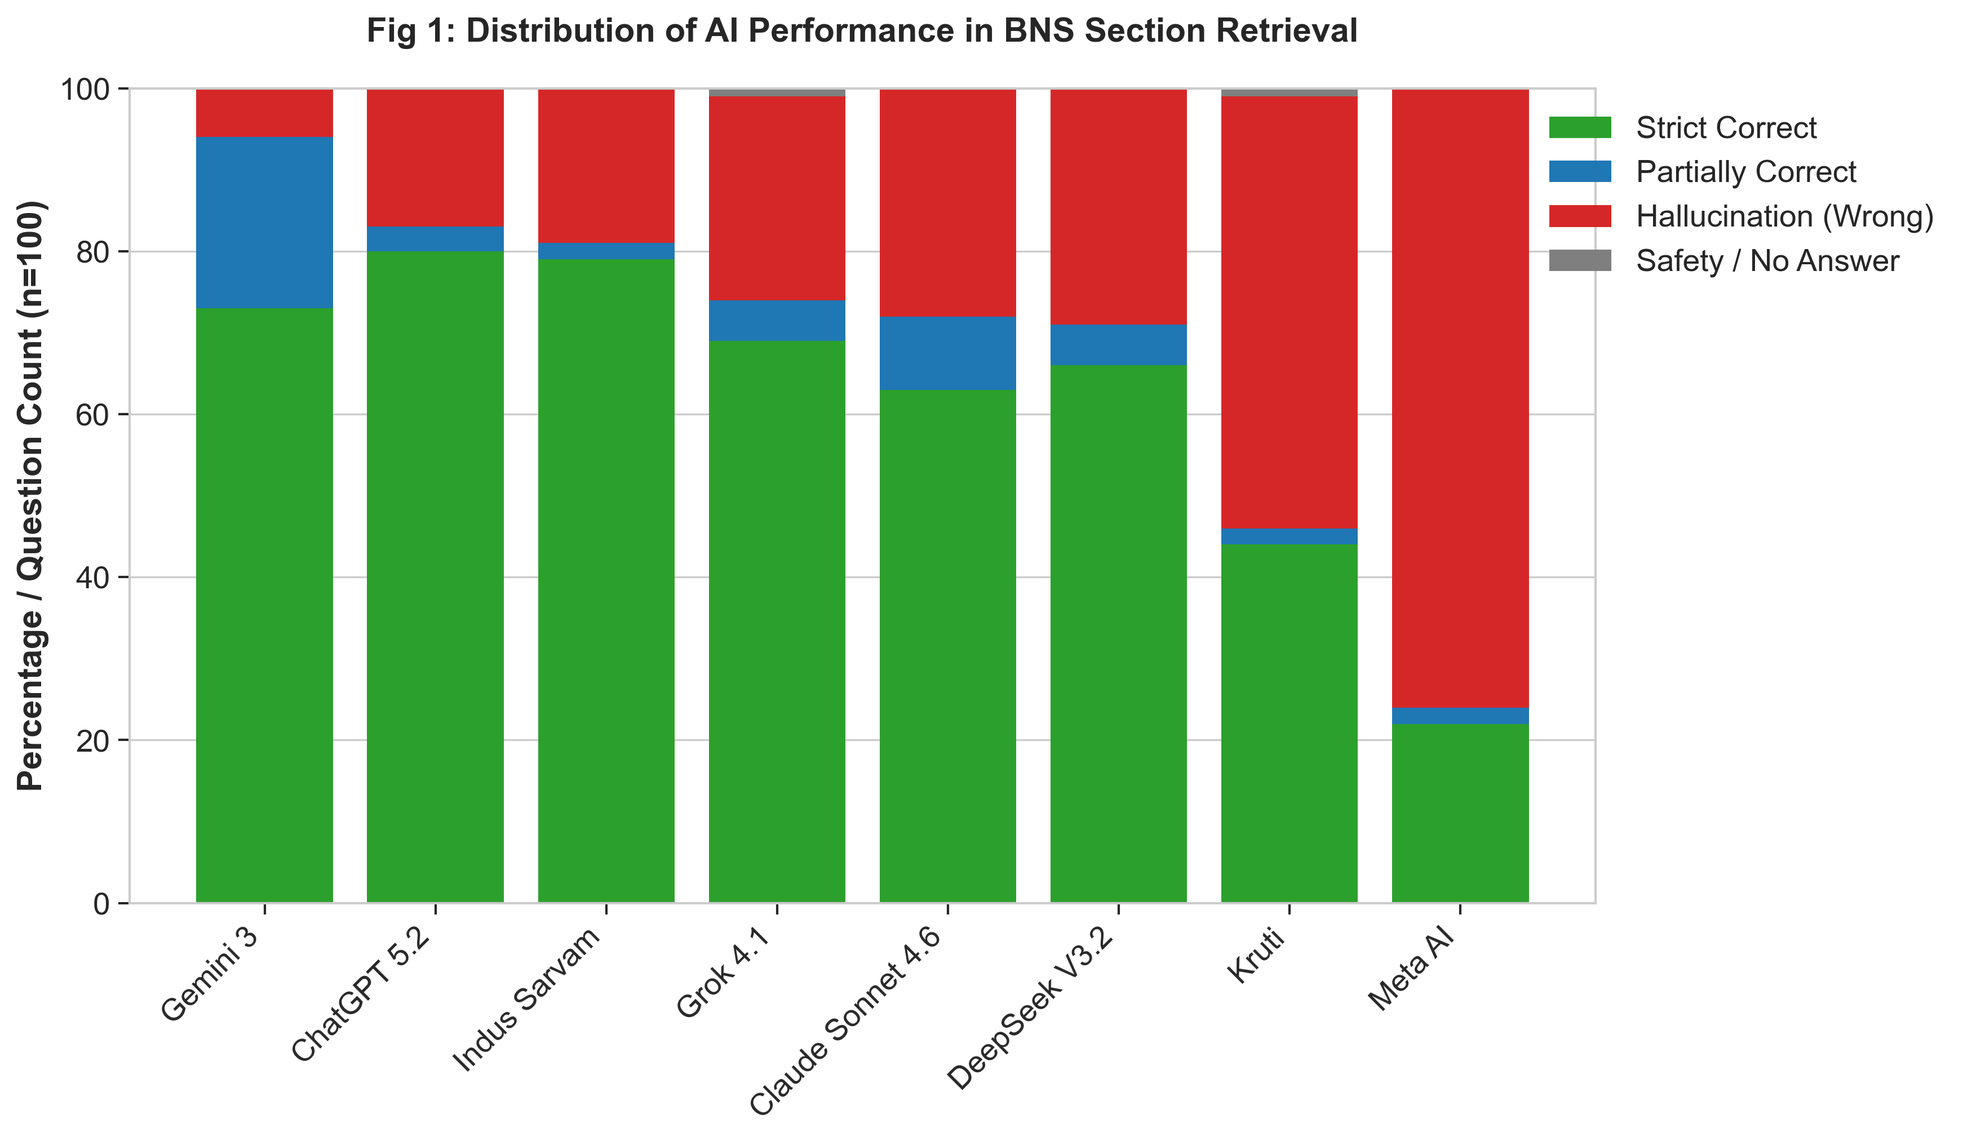
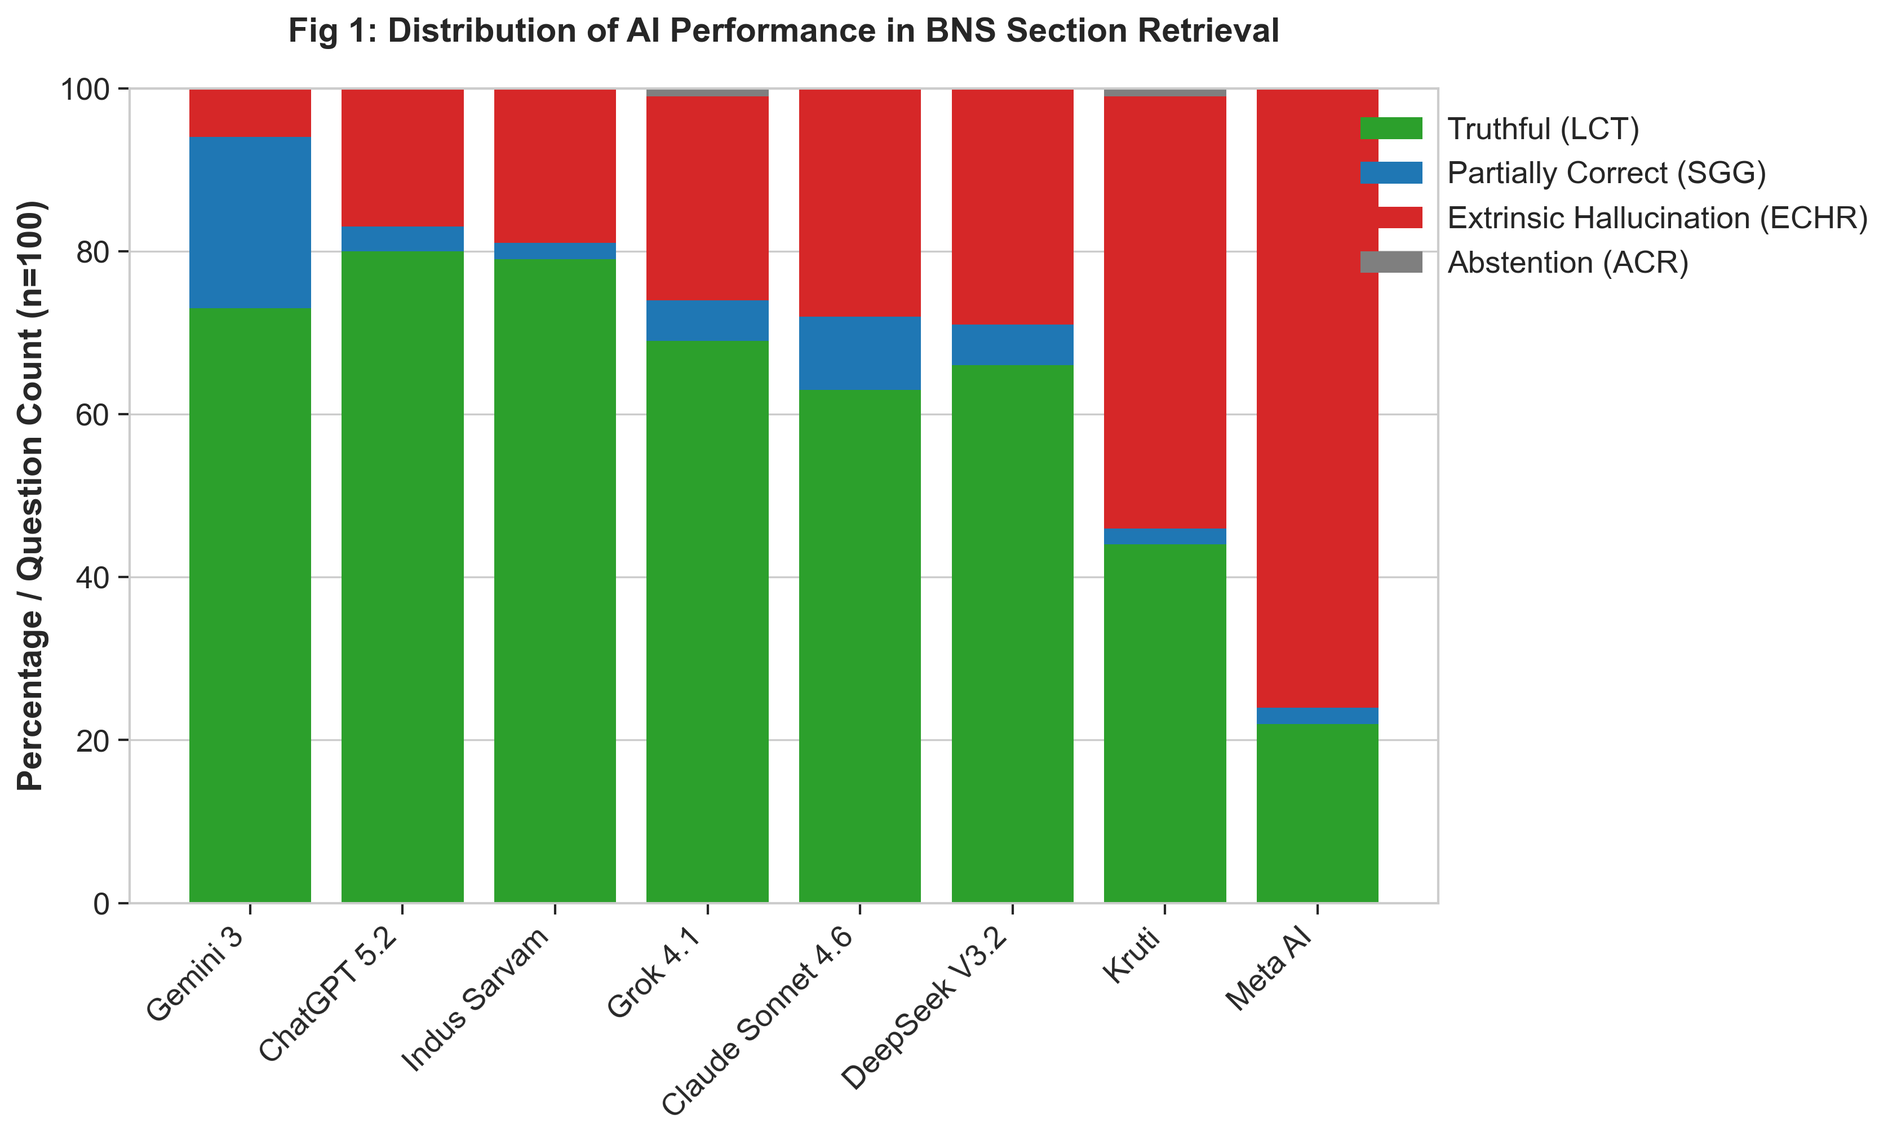
feat: Implement Advanced Legal AI Benchmark Metrics (LCT, ECHR, SGG, ACR, LBAS) for IEEE Research Paper

diff --git a/src/components/AnalyticsDashboard.tsx b/src/components/AnalyticsDashboard.tsx
@@ -40,28 +40,28 @@ export default function AnalyticsDashboard({ data, isOpen, onClose }: AnalyticsD
       const r = rawResults[model];
       const total = Math.max(r.total, 1);
       
-      const alps = Number(((r.correct / total) * 100).toFixed(1));
-      const lhfr = Number(((r.wrong / total) * 100).toFixed(1));
-      const gsam = Number(((r.somewhat / total) * 100).toFixed(1));
-      const sar = Number(((r.noAnswer / total) * 100).toFixed(1));
+      const lct = Number(((r.correct / total) * 100).toFixed(1));
+      const echr = Number(((r.wrong / total) * 100).toFixed(1));
+      const sgg = Number(((r.somewhat / total) * 100).toFixed(1));
+      const acr = Number(((r.noAnswer / total) * 100).toFixed(1));
       
-      const rawWlci = (r.correct * 1.0) + (r.somewhat * 0.5) + (r.noAnswer * 0) + (r.wrong * -1.0);
-      const wlci = Number(Math.max(0, Math.min(100, (rawWlci / total) * 100)).toFixed(1));
+      const rawLbas = (r.correct * 1.0) + (r.somewhat * 0.5) + (r.noAnswer * 0) + (r.wrong * -1.0);
+      const lbas = Number(Math.max(0, Math.min(100, (rawLbas / total) * 100)).toFixed(1));
 
       return {
         name: model,
-        ALPS: alps,
-        LHFR: lhfr,
-        GSAM: gsam,
-        SAR: sar,
-        WLCI: wlci,
+        LCT: lct,
+        ECHR: echr,
+        SGG: sgg,
+        ACR: acr,
+        LBAS: lbas,
         correct: r.correct,
         somewhat: r.somewhat,
         wrong: r.wrong,
         noAnswer: r.noAnswer,
         totalGraded: r.total
       };
-    }).sort((a, b) => b.WLCI - a.WLCI);
+    }).sort((a, b) => b.LBAS - a.LBAS);
   }, [data]);
 
   if (!isOpen) return null;
@@ -98,10 +98,10 @@ export default function AnalyticsDashboard({ data, isOpen, onClose }: AnalyticsD
               <div className="absolute top-0 right-0 w-16 h-16 bg-emerald-50 rounded-bl-[100px] flex items-start justify-end p-3 text-emerald-500">
                 <Target size={18} />
               </div>
-              <span className="text-xs font-bold text-slate-400 uppercase tracking-wider">Top Precision</span>
+              <span className="text-[10px] font-bold text-slate-400 uppercase tracking-wider leading-none mb-1">Top Truthfulness (LCT)</span>
               <div className="flex flex-col">
                 <span className="text-2xl md:text-3xl font-black text-slate-900">{metrics[0]?.name.split(' ')[0]}</span>
-                <span className="text-sm font-semibold text-emerald-600">{metrics[0]?.ALPS}% ALPS</span>
+                <span className="text-sm font-semibold text-emerald-600">{metrics[0]?.LCT}% Legal Truth</span>
               </div>
             </div>
 
@@ -109,10 +109,10 @@ export default function AnalyticsDashboard({ data, isOpen, onClose }: AnalyticsD
               <div className="absolute top-0 right-0 w-16 h-16 bg-indigo-50 rounded-bl-[100px] flex items-start justify-end p-3 text-indigo-500">
                 <Scale size={18} />
               </div>
-              <span className="text-xs font-bold text-slate-400 uppercase tracking-wider">Top Overall</span>
+              <span className="text-[10px] font-bold text-slate-400 uppercase tracking-wider leading-none mb-1">Top Academic Index (LBAS)</span>
               <div className="flex flex-col">
                 <span className="text-2xl md:text-3xl font-black text-slate-900">{metrics[0]?.name.split(' ')[0]}</span>
-                <span className="text-sm font-semibold text-indigo-600">{metrics[0]?.WLCI} WLCI</span>
+                <span className="text-sm font-semibold text-indigo-600">{metrics[0]?.LBAS} LBAS Score</span>
               </div>
             </div>
 
@@ -120,14 +120,14 @@ export default function AnalyticsDashboard({ data, isOpen, onClose }: AnalyticsD
               <div className="absolute top-0 right-0 w-16 h-16 bg-red-50 rounded-bl-[100px] flex items-start justify-end p-3 text-red-500">
                 <AlertTriangle size={18} />
               </div>
-              <span className="text-xs font-bold text-slate-400 uppercase tracking-wider">Highest Risk</span>
+              <span className="text-[10px] font-bold text-slate-400 uppercase tracking-wider leading-none mb-1">Highest Hallucination (ECHR)</span>
               <div className="flex flex-col">
                 {(() => {
-                  const sortedLhfr = [...metrics].sort((a,b) => b.LHFR - a.LHFR);
+                  const sortedEchr = [...metrics].sort((a,b) => b.ECHR - a.ECHR);
                   return (
                     <>
-                      <span className="text-2xl md:text-3xl font-black text-slate-900">{sortedLhfr[0]?.name.split(' ')[0]}</span>
-                      <span className="text-sm font-semibold text-red-600">{sortedLhfr[0]?.LHFR}% LHFR</span>
+                      <span className="text-2xl md:text-3xl font-black text-slate-900">{sortedEchr[0]?.name.split(' ')[0]}</span>
+                      <span className="text-sm font-semibold text-red-600">{sortedEchr[0]?.ECHR}% Fake Citations</span>
                     </>
                   );
                 })()}
@@ -147,35 +147,37 @@ export default function AnalyticsDashboard({ data, isOpen, onClose }: AnalyticsD
           </div>
 
           <div className="grid grid-cols-1 lg:grid-cols-3 gap-8">
-            {/* Left Column: WLCI Leaderboard */}
+            {/* Left Column: LBAS Leaderboard */}
             <div className="lg:col-span-1 bg-white p-6 rounded-2xl border border-slate-200 shadow-sm flex flex-col gap-4">
-              <h3 className="text-lg font-bold text-slate-900 flex items-center gap-2">
-                <Scale size={20} className="text-indigo-600" />
-                WLCI Leaderboard
-              </h3>
-              <p className="text-xs text-slate-500 leading-relaxed">
-                The <strong>Weighted Legal Competency Index</strong> ranks models based on strict precision while heavily penalizing dangerous hallucinations.
-              </p>
+              <div className="mb-2">
+                <h3 className="text-xl font-black text-slate-900 flex items-center gap-2 mb-1 cursor-help group relative">
+                  <Scale size={20} className="text-indigo-600" />
+                  LBAS Leaderboard
+                </h3>
+                <p className="text-xs text-slate-500 leading-relaxed font-medium">
+                  The <strong className="text-slate-700">LegalBench Adjusted Score</strong> (0-100) ranks models by heavily rewarding Truthfulness (LCT) while fundamentally penalizing Extrinsic Hallucinations (ECHR).
+                </p>
+              </div>
               
-              <div className="flex flex-col gap-3 mt-2">
+              <div className="flex flex-col gap-4 mt-2">
                 {metrics.map((m, idx) => (
                   <div key={m.name} className="flex items-center gap-4 group">
-                    <div className={`w-8 h-8 rounded-full flex items-center justify-center font-black text-xs shrink-0
-                      ${idx === 0 ? 'bg-amber-100 text-amber-700' : 
-                        idx === 1 ? 'bg-slate-100 text-slate-600' : 
-                        idx === 2 ? 'bg-orange-50 text-orange-700' : 'bg-slate-50 text-slate-400'}
+                    <div className={`w-8 h-8 rounded-full flex items-center justify-center font-black text-xs shrink-0 shadow-sm border
+                      ${idx === 0 ? 'bg-amber-100 text-amber-700 border-amber-200' : 
+                        idx === 1 ? 'bg-slate-100 text-slate-600 border-slate-200' : 
+                        idx === 2 ? 'bg-orange-50 text-orange-700 border-orange-200' : 'bg-slate-50 text-slate-400 border-slate-100'}
                     `}>
                       {idx + 1}
                     </div>
                     <div className="flex-1 flex flex-col">
-                      <div className="flex items-end justify-between">
+                      <div className="flex items-end justify-between mb-1.5">
                         <span className="text-sm font-bold text-slate-800">{m.name}</span>
-                        <span className="text-sm font-black text-indigo-600">{m.WLCI}</span>
+                        <span className="text-sm font-black text-indigo-600">{m.LBAS}</span>
                       </div>
-                      <div className="w-full bg-slate-100 h-1.5 rounded-full mt-1 overflow-hidden">
+                      <div className="w-full bg-slate-100 h-1.5 rounded-full overflow-hidden">
                         <div 
                           className={`h-full rounded-full transition-all duration-1000 ${idx === 0 ? 'bg-indigo-500' : 'bg-slate-300 group-hover:bg-indigo-400'}`}
-                          style={{ width: `${m.WLCI}%` }}
+                          style={{ width: `${m.LBAS}%` }}
                         />
                       </div>
                     </div>
@@ -189,7 +191,10 @@ export default function AnalyticsDashboard({ data, isOpen, onClose }: AnalyticsD
               
               {/* Stacked Bar Chart */}
               <div className="bg-white p-6 rounded-2xl border border-slate-200 shadow-sm h-[350px] flex flex-col">
-                <h3 className="text-sm font-bold text-slate-900 mb-4 uppercase tracking-wider">Response Distribution</h3>
+                <div className="mb-4">
+                  <h3 className="text-sm font-bold text-slate-900 uppercase tracking-wider mb-1">Performance Distribution</h3>
+                  <p className="text-[10px] text-slate-500 font-medium">Breakdown of Legal Claim Truthfulness (LCT), Groundedness (SGG), Extrinsic Hallucination (ECHR), and Abstention (ACR).</p>
+                </div>
                 <div className="flex-1 w-full min-h-0">
                   <ResponsiveContainer width="100%" height="100%">
                     <BarChart
@@ -205,10 +210,10 @@ export default function AnalyticsDashboard({ data, isOpen, onClose }: AnalyticsD
                         labelStyle={{ fontSize: '14px', fontWeight: 800, color: '#0f172a', marginBottom: '8px' }}
                       />
                       <Legend wrapperStyle={{ fontSize: '12px', paddingTop: '10px' }} iconType="circle" />
-                      <Bar dataKey="correct" name="Strict Correct (ALPS)" stackId="a" fill="#10b981" radius={[0, 0, 4, 4]} />
-                      <Bar dataKey="somewhat" name="Partial Correct (GSAM)" stackId="a" fill="#3b82f6" />
-                      <Bar dataKey="wrong" name="Hallucination (LHFR)" stackId="a" fill="#ef4444" />
-                      <Bar dataKey="noAnswer" name="Safety (SAR)" stackId="a" fill="#94a3b8" radius={[4, 4, 0, 0]} />
+                      <Bar dataKey="correct" name="LCT (Truthful)" stackId="a" fill="#10b981" radius={[0, 0, 4, 4]} />
+                      <Bar dataKey="somewhat" name="SGG (Partial/Granular)" stackId="a" fill="#3b82f6" />
+                      <Bar dataKey="wrong" name="ECHR (Hallucinated)" stackId="a" fill="#ef4444" />
+                      <Bar dataKey="noAnswer" name="ACR (Safe Abstention)" stackId="a" fill="#94a3b8" radius={[4, 4, 0, 0]} />
                     </BarChart>
                   </ResponsiveContainer>
                 </div>
@@ -216,15 +221,18 @@ export default function AnalyticsDashboard({ data, isOpen, onClose }: AnalyticsD
 
               {/* Scatter Chart */}
               <div className="bg-white p-6 rounded-2xl border border-slate-200 shadow-sm h-[350px] flex flex-col">
-                <h3 className="text-sm font-bold text-slate-900 mb-4 uppercase tracking-wider">Precision vs Danger Matrix</h3>
+                <div className="mb-4">
+                  <h3 className="text-sm font-bold text-slate-900 uppercase tracking-wider mb-1">Truthfulness vs. Hallucination Matrix</h3>
+                  <p className="text-[10px] text-slate-500 font-medium">Bottom-Right quadrant represents models that are highly truthful (High LCT) while avoiding dangerous fabrications (Low ECHR).</p>
+                </div>
                 <div className="flex-1 w-full min-h-0">
                   <ResponsiveContainer width="100%" height="100%">
                     <ScatterChart margin={{ top: 20, right: 20, bottom: 20, left: -20 }}>
                       <CartesianGrid strokeDasharray="3 3" stroke="#e2e8f0" />
                       <XAxis 
                         type="number" 
-                        dataKey="ALPS" 
-                        name="Precision (ALPS)" 
+                        dataKey="LCT" 
+                        name="Truthfulness (LCT)" 
                         unit="%" 
                         tick={{ fill: '#64748b', fontSize: 12 }}
                         axisLine={false}
@@ -233,14 +241,14 @@ export default function AnalyticsDashboard({ data, isOpen, onClose }: AnalyticsD
                       </XAxis>
                       <YAxis 
                         type="number" 
-                        dataKey="LHFR" 
-                        name="Danger (LHFR)" 
+                        dataKey="ECHR" 
+                        name="Danger (ECHR)" 
                         unit="%" 
                         tick={{ fill: '#64748b', fontSize: 12 }}
                         axisLine={false}
                         tickLine={false}
                       />
-                      <ZAxis type="number" dataKey="WLCI" range={[50, 400]} name="Overall WLCI" />
+                      <ZAxis type="number" dataKey="LBAS" range={[50, 400]} name="Overall LBAS" />
                       <Tooltip 
                         cursor={{ strokeDasharray: '3 3' }}
                         contentStyle={{ borderRadius: '12px', border: 'none', boxShadow: '0 10px 15px -3px rgb(0 0 0 / 0.1)' }}
@@ -249,8 +257,8 @@ export default function AnalyticsDashboard({ data, isOpen, onClose }: AnalyticsD
                         {metrics.map((entry, index) => (
                            <text 
                              key={`label-${index}`} 
-                             x={entry.ALPS} 
-                             y={entry.LHFR} 
+                             x={entry.LCT} 
+                             y={entry.ECHR} 
                              dy={-15} 
                              textAnchor="middle" 
                              fill="#475569" 

diff --git a/scripts/generate_academic_benchmarks.py b/scripts/generate_academic_benchmarks.py
@@ -41,29 +41,29 @@ def calculate_metrics(json_file_path):
         r = results[m]
         total = max(r['total'], 1) # Prevent div by zero
         
-        alps = (r['correct'] / total) * 100
-        lhfr = (r['wrong'] / total) * 100
-        gsam = (r['somewhat correct'] / total) * 100
-        sar = (r['no answer'] / total) * 100
+        lct = (r['correct'] / total) * 100
+        echr = (r['wrong'] / total) * 100
+        sgg = (r['somewhat correct'] / total) * 100
+        acr = (r['no answer'] / total) * 100
         
-        # Weighted Legal Competency Index (WLCI)
+        # LegalBench Adjusted Score (LBAS)
         # Correct = +1.0, Somewhat = +0.5, No Answer = 0, Wrong = -1.0
         # Scaled to a recognizable index (-100 to 100, then normalized to 0-100)
-        raw_wlci = (r['correct'] * 1.0) + (r['somewhat correct'] * 0.5) + (r['no answer'] * 0) + (r['wrong'] * -1.0)
-        wlci = max(0, min(100, (raw_wlci / total) * 100)) # Simplified to bounded 0-100 for easy reading
+        raw_lbas = (r['correct'] * 1.0) + (r['somewhat correct'] * 0.5) + (r['no answer'] * 0) + (r['wrong'] * -1.0)
+        lbas = max(0, min(100, (raw_lbas / total) * 100)) # Simplified to bounded 0-100 for easy reading
         
         benchmarks.append({
             'Model': m,
-            'ALPS (%)': alps,
-            'LHFR (%)': lhfr,
-            'GSAM (%)': gsam,
-            'SAR (%)': sar,
-            'WLCI Score': wlci,
+            'LCT (%)': lct,
+            'ECHR (%)': echr,
+            'SGG (%)': sgg,
+            'ACR (%)': acr,
+            'LBAS Score': lbas,
             'Total Graded': total
         })
         
     df = pd.DataFrame(benchmarks)
-    df = df.sort_values(by='WLCI Score', ascending=False).reset_index(drop=True)
+    df = df.sort_values(by='LBAS Score', ascending=False).reset_index(drop=True)
     return df, results
 
 def generate_ieee_visualizations(df, raw_results, output_dir="charts"):
@@ -84,52 +84,52 @@ def generate_ieee_visualizations(df, raw_results, output_dir="charts"):
     # Colors for academic publishing (colorblind friendly)
     colors = ['#2ca02c', '#1f77b4', '#d62728', '#7f7f7f']
     
-    p1 = ax.bar(models, correct, color=colors[0], label='Strict Correct')
-    p2 = ax.bar(models, somewhat, bottom=correct, color=colors[1], label='Partially Correct')
-    p3 = ax.bar(models, wrong, bottom=np.array(correct)+np.array(somewhat), color=colors[2], label='Hallucination (Wrong)')
-    p4 = ax.bar(models, no_ans, bottom=np.array(correct)+np.array(somewhat)+np.array(wrong), color=colors[3], label='Safety / No Answer')
+    p1 = ax.bar(models, correct, color=colors[0], label='Truthful (LCT)')
+    p2 = ax.bar(models, somewhat, bottom=correct, color=colors[1], label='Partially Correct (SGG)')
+    p3 = ax.bar(models, wrong, bottom=np.array(correct)+np.array(somewhat), color=colors[2], label='Extrinsic Hallucination (ECHR)')
+    p4 = ax.bar(models, no_ans, bottom=np.array(correct)+np.array(somewhat)+np.array(wrong), color=colors[3], label='Abstention (ACR)')
     
     ax.set_ylabel('Percentage / Question Count (n=100)', fontweight='bold')
     ax.set_title('Fig 1: Distribution of AI Performance in BNS Section Retrieval', fontweight='bold', pad=20)
-    ax.legend(loc='upper right', bbox_to_anchor=(1.25, 1))
+    ax.legend(loc='upper right', bbox_to_anchor=(1.35, 1))
     
     plt.xticks(rotation=45, ha='right')
     plt.tight_layout()
     plt.savefig(f"{output_dir}/fig1_performance_distribution.png", dpi=300, bbox_inches='tight')
     plt.close()
 
-    # 2. Bubble Chart: ALPS vs LHFR (Precision vs Danger)
+    # 2. Bubble Chart: LCT vs ECHR (Truthfulness vs Threat)
     fig, ax = plt.subplots(figsize=(10, 8))
     
-    scatter = ax.scatter(df['ALPS (%)'], df['LHFR (%)'], 
-                         s=df['WLCI Score']*10, # Size = overall score
+    scatter = ax.scatter(df['LCT (%)'], df['ECHR (%)'], 
+                         s=df['LBAS Score']*10, # Size = overall score
                          alpha=0.6, 
-                         c=df['WLCI Score'], 
+                         c=df['LBAS Score'], 
                          cmap='viridis')
     
     # Add labels to points
     for i, txt in enumerate(models):
-        ax.annotate(txt, (df['ALPS (%)'][i], df['LHFR (%)'][i]), xytext=(5, 5), textcoords='offset points')
+        ax.annotate(txt, (df['LCT (%)'][i], df['ECHR (%)'][i]), xytext=(5, 5), textcoords='offset points')
         
-    ax.set_xlabel('Absolute Legal Precision Score (ALPS) % -> Better', fontweight='bold')
-    ax.set_ylabel('Legal Hallucination Rate (LHFR) % -> Worse', fontweight='bold')
-    ax.set_title('Fig 2: AI Safety vs Precision (Bubble Size = Overall WLCI Score)', fontweight='bold', pad=20)
+    ax.set_xlabel('Legal Claim Truthfulness (LCT) % -> Better', fontweight='bold')
+    ax.set_ylabel('Extrinsic Citation Hallucination Rate (ECHR) % -> Worse', fontweight='bold')
+    ax.set_title('Fig 2: AI Safety vs Precision (Bubble Size = LegalBench Score)', fontweight='bold', pad=20)
     
     # Add quadrants lines
-    ax.axhline(y=df['LHFR (%)'].mean(), color='r', linestyle='--', alpha=0.3)
-    ax.axvline(x=df['ALPS (%)'].mean(), color='r', linestyle='--', alpha=0.3)
+    ax.axhline(y=df['ECHR (%)'].mean(), color='r', linestyle='--', alpha=0.3)
+    ax.axvline(x=df['LCT (%)'].mean(), color='r', linestyle='--', alpha=0.3)
     
     plt.tight_layout()
     plt.savefig(f"{output_dir}/fig2_precision_vs_danger.png", dpi=300)
     plt.close()
     
-    # 3. Bar Chart: WLCI Score Ranking
+    # 3. Bar Chart: LBAS Score Ranking
     fig, ax = plt.subplots(figsize=(12, 6))
     
-    bars = ax.bar(models, df['WLCI Score'], color=sns.color_palette("viridis", len(models)))
+    bars = ax.bar(models, df['LBAS Score'], color=sns.color_palette("viridis", len(models)))
     
-    ax.set_ylabel('WLCI Index Score', fontweight='bold')
-    ax.set_title('Fig 3: Weighted Legal Competency Index (WLCI) Rankings', fontweight='bold', pad=20)
+    ax.set_ylabel('LBAS Index Score', fontweight='bold')
+    ax.set_title('Fig 3: LegalBench Adjusted Score (LBAS) Rankings', fontweight='bold', pad=20)
     
     # Add score on top of bars
     for bar in bars:
@@ -138,7 +138,7 @@ def generate_ieee_visualizations(df, raw_results, output_dir="charts"):
         
     plt.xticks(rotation=45, ha='right')
     plt.tight_layout()
-    plt.savefig(f"{output_dir}/fig3_wlci_rankings.png", dpi=300)
+    plt.savefig(f"{output_dir}/fig3_lbas_rankings.png", dpi=300)
     plt.close()
 
     print("Charts generated successfully!")
